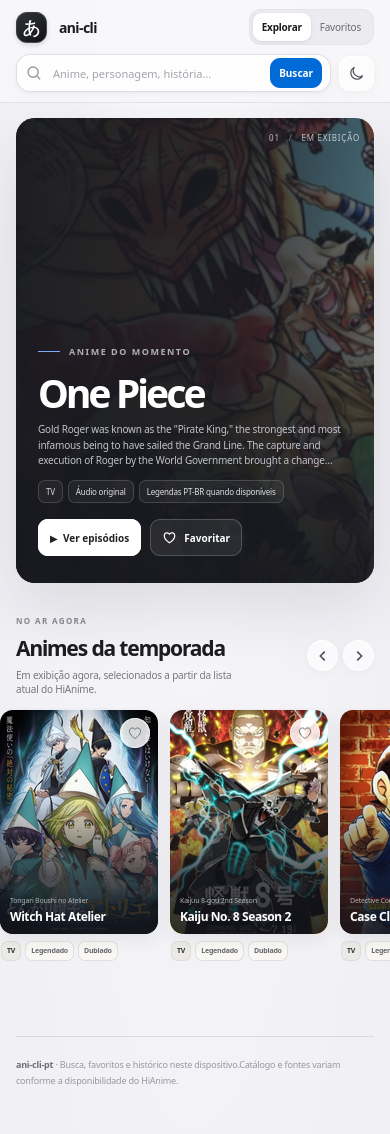
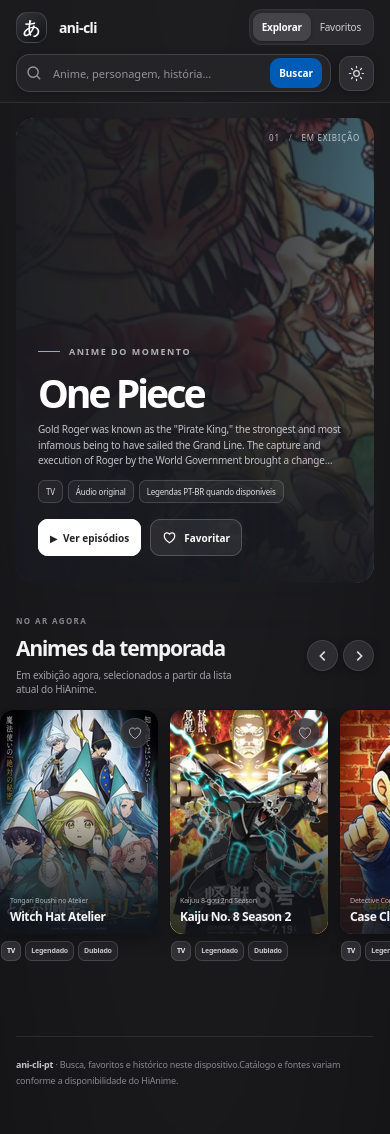
docs: show web screenshots in dark theme

diff --git a/README.md b/README.md
@@ -97,7 +97,7 @@ A home destaca o anime mais bem colocado na lista atual de séries em exibição
 
 ### Capturas da interface
 
-Na home, o destaque vem do topo da lista atual de animes em exibição. O carrossel mostra outros títulos da temporada.
+As capturas abaixo mostram a interface no tema escuro. Na home, o destaque vem do topo da lista atual de animes em exibição; o carrossel mostra outros títulos da temporada.
 
 <p align="center">
   <img src="docs/screenshots/home-desktop.png" width="68%" alt="Home do ani-cli-pt em desktop, com One Piece em destaque e carrossel de animes da temporada">
